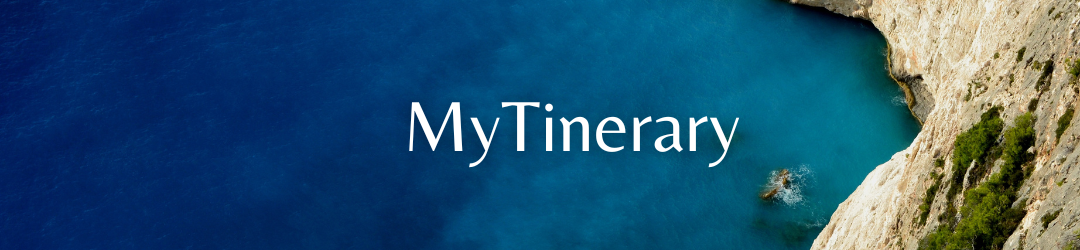
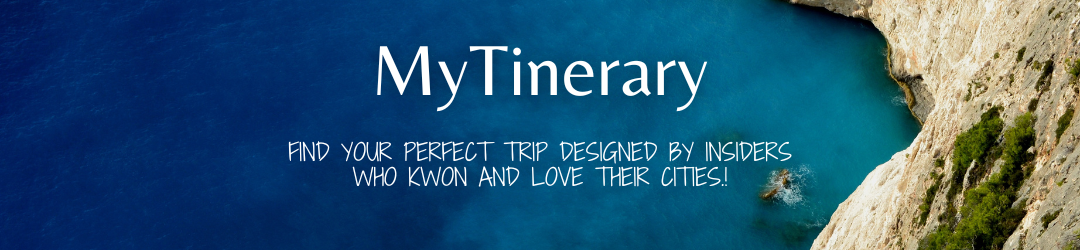
Agreado pagina de detalle y funcionalidad

Changed region(s): [[0.2444, 0.168, 0.7333, 0.756]]

diff --git a/src/styles/styles.css b/src/styles/styles.css
@@ -70,6 +70,7 @@ body {
 }
 .title-app{
     border-radius: 100px !important;
+    width: 95% !important;
 }
 
 
@@ -87,9 +88,15 @@ body {
   background-color: rgba(0, 0, 0, 0.212);
   font-family: 'Joan', serif !important;; 
   font-weight: bold !important;  
-  width: 100vw;
+  width: 95vw;
   text-align: center;
   text-shadow: 0px 0px 5px black;
+}
+.carrousel-title h1{
+  font-size: 4rem;
+  font-weight: bold;
+  color: #fff;
+  margin-top: 2rem;
 }
 .swiper-slide {
   text-align: center;
@@ -159,7 +166,85 @@ height: auto;
 .image-list-item img{
   height: 50vh !important;
 }
+
+/* Pagina Detalles */
+
+.image-detail img{
+  height: 50vh !important;
+  object-fit: contain !important;
+}
+.description {
+  display: flex;
+  flex-direction: column;
+  justify-content: center;
+  align-items: center;
+  width: 100%;
+  margin: 1rem;
+  background-color: rgba(0, 0, 0, 0.651);
+  color: antiquewhite;
+  text-align: center !important;
+}
+.description p{
+    width: 70% !important;
+    line-height: 1rem;
+}
+
+.city-name{
+  font-family: 'Joan', serif !important;
+  font-size: 4rem;
+  font-weight: bold;
+  text-align: center;
+  margin-bottom: 2rem;
+  text-shadow: 0px 0px 5px rgb(70, 39, 247);
+}
+
 /* Componenetes Botones Externos */
+/* From uiverse.io by @Madflows */
+.button{
+  display: flex;
+  align-items: center !important;
+  justify-content: flex-end !important;
+  position: relative;
+  overflow: hidden;
+  height: 1.5rem;
+  padding: 0 2rem;
+  border-radius: 1.5rem;
+  background: #213553;
+  background-size: 400%;
+  margin-bottom: 1rem;
+}
+
+.button span{
+  color: antiquewhite;
+  align-content: center;
+}
+
+.button:hover::before {
+  transform: scaleX(1);
+}
+
+.button-content {
+  position: relative;
+  z-index: 1;
+}
+
+.button::before {
+  content: '';
+  position: absolute;
+  top: 0;
+  left: 0;
+  transform: scaleX(0);
+  transform-origin: 0 50%;
+  width: 100%;
+  height: inherit;
+  border-radius: inherit;
+  background: linear-gradient(
+    82.3deg,
+    rgb(93, 130, 233) 10.8%,
+    rgb(88, 111, 238) 94.3%
+  );
+  transition: all 0.475s;
+}
 /* From uiverse.io by @Allyhere */
 .btn-donate {
   --clr-font-main: hsla(0 0% 20% / 100);
@@ -182,6 +267,7 @@ height: auto;
   border-radius: var(--radii);
   color: var(--btn-bg-color);
   box-shadow: 0px 0px 20px rgba(71, 184, 255, 0.5), 0px 5px 5px -1px rgba(58, 125, 233, 0.25), inset 4px 4px 8px rgba(175, 230, 255, 0.5), inset -4px -4px 8px rgba(19, 95, 216, 0.35);
+  align-self: center !important;
 }
 
 .btn-donate:hover {
@@ -245,11 +331,21 @@ border-radius: 50px;
         width: 100%;
         height: auto;
     }
+    .carrousel-title {
+        font-size: 2rem !important;
+    }
     .btn-cities {
         width: 100%;
         height: auto;
-        margin-top: -15rem !important;
     }
+    .title-app{
+    border-radius: 100px !important;
+    width: 95% !important;
+    margin: .5rem auto !important;
+}
+.call{
+  margin: 3rem auto !important;
+}
 }
 
 @media (max-width: 580px) {

diff --git a/src/components/Calltoaction.jsx b/src/components/Calltoaction.jsx
@@ -6,13 +6,14 @@ import {Link as RouterLink} from "react-router-dom";
 import Title from '../img/mytinerary.png';
 
 
+
 function CallToAction() {
     return (
-        <>  
+        <>
         <Box sx={{display: 'flex',
             flexDirection: 'column',
             justifyContent: 'flex-end',
-            alignItems: 'bottom',
+            alignItems: 'center',
             width: '90vw',
             height: '20vh',
             margin: '5rem auto',
@@ -23,24 +24,19 @@ function CallToAction() {
         <Box sx={{
             display: 'flex',
             flexDirection: 'column',
-            justifyContent: 'flex-end',
-            alignItems: 'bottom',
-            backgroundImage: 'url(' + Fondo + ')',
-            backgroundRepeat: 'no-repeat',
-            backgroundSize: 'contain',
-            backgroundPosition: 'center',
+            justifyContent: 'center',
+            alignItems: 'center',
             width: '90vw',
             height: '50vh',
-            margin: '5rem auto',
+            margin: '2rem auto',
             marginTop: '2rem',
 }} >    
-        
+        <img src={Fondo} alt="fondo" className="title-app" />
         <Stack spacing={1} direction="row" className="btn-cities" sx={{
             justifyContent: 'center',
+            alignItems: 'center',
             borderRadius: '50px',
             margin: '0 auto',
-            marginBottom: '.5rem',
-            marginTop: '1rem',
 }}>
         <RouterLink to={'/cities'} ><span className='btn-donate'>  All Cities  </span></RouterLink>  
         </Stack>    

diff --git a/src/pages/Details.jsx b/src/pages/Details.jsx
@@ -1,27 +1,37 @@
 import React from 'react';
 import { useParams } from 'react-router-dom';
 import { useEffect, useState } from 'react';
+import BtnBack from '../components/BtnBack';
+import '../styles/styles.css';
 
 
 function Details() {
-// const [cities,setCities] = useState()
-
-// useEffect(() => {
-// fetch("./data/cities.json")
-// .then(response =>response.json())
-// .then(data => setCities(data))
-// .catch(error => console.error(error))
-// },[])
-
 const {id} = useParams();
+
+const [cities,setCities] = useState()
+
+useEffect(() => {
+fetch("https://62a395985bd3609cee6cceb8.mockapi.io/api/cities" )
+.then(response => response.json())
+.then(data => setCities(data.cities.filter(city => city.id === id)))
+},)
 
     return (
     <>
-        {/* {cities && cities.map(city =>  */}
-        <div className='main' key={id}>
-            <h1>Details</h1>  
-            <p>Aqui el detalles de la Ciudad {id}</p>
+        {cities && cities.map(city => 
+        <div  className='main ' key={id}>   
+            <div className="city-name">
+            <h3>{city.name}</h3>
+            </div>
+            <div className='image-detail'>
+                <img src={city.image} alt="my city" />
+            </div>  
+            <div className='description'>
+                <p>{city.info}</p>
+            </div>
+            <BtnBack />
         </div>
+        )}
     </>
 );
 }

diff --git a/src/pages/Index.jsx b/src/pages/Index.jsx
@@ -6,16 +6,15 @@ import '../styles/styles.css';
 
 function Index (){
 
+
 const [cities,setCities] = useState()
 
 useEffect(() => {
-fetch("./data/cities.json")
+fetch("../data/cities.json")
 .then(response =>response.json())
 .then(data => setCities(data))
 .catch(error => console.error(error))
 },[])
-
-
 return (
 <>
 <div className="main">
@@ -23,7 +22,7 @@ return (
         <CallToAction/>
     </div>
     <div className="carrousel">
-        <Carrousel cities={cities}/>
+        <Carrousel cities={cities} />
     </div>
 </div>
 </>

diff --git a/src/components/CardCities.jsx b/src/components/CardCities.jsx
@@ -5,11 +5,12 @@ import ImageListItemBar from '@mui/material/ImageListItemBar';
 import IconButton from '@mui/material/IconButton';
 import InfoIcon from '@mui/icons-material/Info';
 import {Link as RouterLink} from "react-router-dom";
+import Filter from '../components/Filter';
 
 function CardCities(props) {
 return (
 <>
-
+    <Filter cities={props} />
   <ImageList sx={{ width: '90vw', margin: '2rem', }}>
             {props.cities && props.cities.cities.map(city =>
         <ImageListItem key={city.image} className="image-list-item">

diff --git a/src/components/Carrousel.jsx b/src/components/Carrousel.jsx
@@ -39,7 +39,7 @@ console.log(props.Cities);
       >
         {props.cities && props.cities.cities.map(city => 
         <SwiperSlide key={city.id} className="cities">
-          <img style={{height:'90%', width: '100%'}} src={city.image} alt="foto"/>
+          <img style={{height:'90%', width: '100%', objectFit: 'cover'}} src={city.image} alt="foto"/>
           <Typography variant="h6" style={{color: 'white', width: '100%'}} sx={{alignSelf:'flex-end', margin: '0 .5rem', }}>{city.name}</Typography>
         </SwiperSlide>
         )}

diff --git a/src/App.js b/src/App.js
@@ -1,6 +1,7 @@
 import React from 'react';
 import { Routes, Route } from 'react-router-dom';
 
+
 import '../src/styles/App.css';
 import "swiper/css/bundle";
 import "../src/styles/styles.css";
